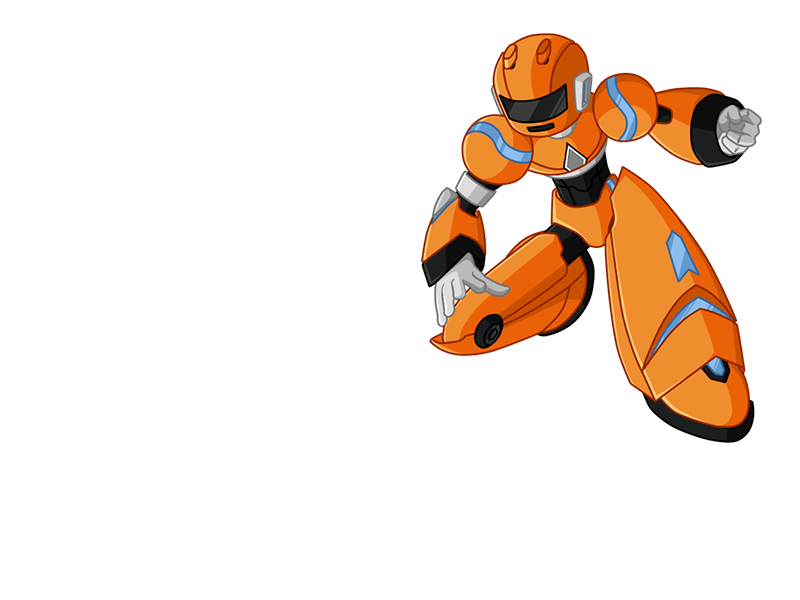
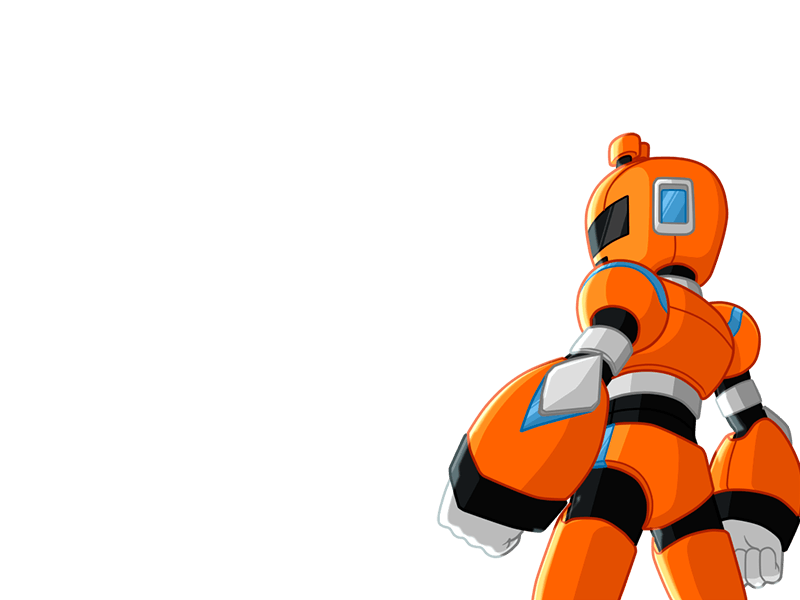
Style tweaks on the welcome page

Changed region(s): [[0.5, 0.03, 1.0, 1.0]]

diff --git a/app/lib/welcome.php b/app/lib/welcome.php
@@ -110,23 +110,30 @@ class WPEMATICO_Welcome {
 				/*<![CDATA[*/
 				[class*="dashboard_page_"] #wpcontent { /*background: #fff;*/ padding: 0 24px; }
 				.wpe-flex{ display: flex; }
-				.about__header-navigation { background: #fff; color: #333;}
-				.about__section { background: #fff; }
-				.about__header { background-color: #222; }
-				.about__header-title p { color: #fff; }
+				.about__section { background: #fff; font-size: 1.2em; margin: 0;}
+				.about__section.mb-0{ margin-bottom: 0; }
+				.about__section a{ color: #222; }
+				.about__section a:hover{ color: #ef8e2f; }
+				.about__header { background-image: <?php echo 'url('.WPEMATICO_PLUGIN_URL . 'images/about-header.png)'; ?>; background-size: 80%; background-position: bottom right; padding-top: 3rem; background-color: #222; }
+				.about__header-title{ margin: 5rem 2rem 0;padding: 1em 0; }
+				.about__header-title p { margin: 0; padding: 0; font-size: 4em; color: #fff; line-height: 1; font-weight: 900; text-transform: uppercase; }
 				.about__header-title p span { color: #eee; }
-				.about__header-text { background: #ef8e2f; }
-				.about__header-text p { color: #fff; }
-				.about__header-navigation { border-color: #222 }
-				.about__header-navigation .nav-tab-active:active, .about__header-navigation .nav-tab-active:hover,
-				.about__header-navigation .nav-tab-active { color: #ef8e2f; border-color: #ef8e2f;}
+				.about__header-text { max-width: 25em; margin: 0 2rem 3rem; padding: 0; font-size: 1.5em; line-height: 1.4;}
+				.about__header-text p { color: #fff; margin-top: 0; }
+				.about__header-navigation { display: flex; justify-content: flex-start; background: #fff; color: #222; border-color: #222; padding-top: 0;}
+				.about__header-navigation .nav-tab{color: #222 ; margin: 0; padding: 24px 32px; float: none; font-size: 1.4em; line-height: 1; border-style: solid; background: 0 0; border-width: 0 0 3px; border-color: transparent;}
+				.about__header-navigation .nav-tab-active { margin-bottom: -3px; }
+				.about__header-navigation .nav-tab-active:active, .about__header-navigation .nav-tab-active:hover, .about__header-navigation .nav-tab-active { color: #ef8e2f; border-color: #ef8e2f;}
 				.about__header-navigation .nav-tab:active, .about__header-navigation .nav-tab:hover{ background: #f5f5f5; color: #ef8e2f; }
 				.about__container .has-accent-background-color { background: #ef8e2f; }
 				.about__container .has-subtle-background-color { background: #f9f9f9; }
-				.about__header-title .wpematico-badge { align-self: flex-end; margin-bottom: 20px; max-height: 80px; width: auto; }
+				.about__header-title .wpematico-badge { align-self: flex-end; margin-bottom: 10px; max-height: 80px; width: auto; }
 				.about__section.about__section_height { min-height: 560px; }
 				.about__section.about__section_height-2 { min-height: 400px; }
 				.about__section.is-feature { font-size: 1.4em; }
+				.about__container h1, .about__container h2, .about__container h3.is-larger-heading{
+					    margin-top: 0; margin-bottom: .5em; font-size: 1.75em; line-height: 1.2; font-weight: 600; }
+				.about__container h1.is-smaller-heading, .about__container h2.is-smaller-heading, .about__container h3 { margin-top: 0; font-size: 1.25em; font-weight: 700; }
 				.about__container .about__image { padding: 0 32px; }
 				.about__section .span-text { font-size: .9em; }
 				.feature-section a, .about__section p a { font-weight: 600; }
@@ -134,14 +141,35 @@ class WPEMATICO_Welcome {
 				.addon_block .addon_img img { display:block; max-width: 120px; height: auto; margin-right: 10px; }
 				.addon_block .addon_text { text-align: right;}
 				.addon_block .addon_text p { margin: 0; font-size: 13px; }
+				.about__section.has-2-columns, .about__section.has-3-columns, .about__section.has-4-columns, .about__section.has-overlap-style { display: grid; }
+				.about__section.has-2-columns{ -ms-grid-columns: 1fr 1fr; grid-template-columns: 1fr 1fr; }
+				.about__section.has-2-columns .column:nth-of-type(2n+1) { -ms-grid-column: 1; grid-column-start: 1; }
+				.about__section.has-2-columns .column:nth-of-type(2n) { -ms-grid-column: 2; grid-column-start: 2; }
+				.about__section .column.is-edge-to-edge{ color: #fff; padding: 0; }
+				.about__section + .about__section .column{ padding-top: 32px; }
+				.about__container .is-vertically-aligned-center{ align-self: center; }
+				@media all and ( max-width: 1035px ) {
+					.about__header { background-size: 95%; }
+				}
 				@media all and ( max-width: 782px ) {
-					.about__header-title .wpematico-badge{ display: none; }
+					.about__header{	background-image: none; }
+					.about__header-title{ margin-top: 0; padding-top: 0;}
+					.about__header-title p{ font-size: 3em; }
 				}
 				@media all and ( max-width: 782px ) and (min-width: 481px) {
 					.about__header-navigation .nav-tab{ padding: 24px 16px; }
 				}
 				@media all and ( max-width: 600px ) and (min-width: 481px) {
 					.about__header-navigation .nav-tab{ font-size: 1.1em; }
+				}
+				@media all and ( max-width: 600px ) {
+					.about__header-title p{ font-size: 2.25em; }
+					.about__section.has-2-columns, .about__section.has-2-columns.is-wider-left, .about__section.has-2-columns.is-wider-right, .about__section.has-3-columns{ display: block; padding-bottom: 16px; }
+					.about__section + .about__section .column{ padding-top: 16px; }
+					.about__section.has-2-columns .column:nth-of-type(n){ padding-top: 16px; padding-bottom: 16px; }
+					.about__header-navigation{ flex-direction: column; }
+					.about__header-navigation .nav-tab { float: none; display: block; margin-bottom: 0; padding: 16px 16px; border-left-width: 6px; border-bottom: none; }
+					.about__header-navigation .nav-tab-active { border-bottom: none; border-left-width: 6px; }
 				}
 				/*]]>*/
 			</style>
@@ -166,6 +194,13 @@ class WPEMATICO_Welcome {
 
 		list( $display_version ) = explode('-', WPEMATICO_VERSION);
 		?>
+		<div class="about__header-title">
+			<img class="wpematico-badge" src="<?php echo WPEMATICO_PLUGIN_URL . '/images/robotico_orange-75x130.png'; ?>" alt="<?php _e('WPeMatico', 'wpematico'); ?>" / >
+			<p>
+				<?php _e('WPeMatico'); ?>
+				<span><?php echo $display_version; ?></span>
+			</p>
+		</div>
 		<div class="about__header-text">
 			<p>
 				<?php
@@ -174,14 +209,6 @@ class WPEMATICO_Welcome {
 					$display_version
 				);
 				?>
-			</p>
-		</div>
-
-		<div class="about__header-title">
-			<img class="wpematico-badge" src="<?php echo WPEMATICO_PLUGIN_URL . '/images/robotico_orange-75x130.png'; ?>" alt="<?php _e('WPeMatico', 'wpematico'); ?>" / >
-			<p>
-				<?php _e('WPeMatico'); ?>
-				<span><?php echo $display_version; ?></span>
 			</p>
 		</div>
 		<?php
@@ -235,7 +262,7 @@ class WPEMATICO_Welcome {
 
 			<?php $this->subscription_form(); ?>
 
-			<hr />
+			<hr/>
 
 			<div class="about__section about__section_height has-2-columns">
 				<div class="column wpe-flex is-edge-to-edge has-accent-background-color">
@@ -342,7 +369,7 @@ class WPEMATICO_Welcome {
 				</div>
 			</div>
 
-			<hr />
+			<hr/>
 
 			<div class="about__section about__section_height has-2-columns has-subtle-background-color">
 				<h2 class="is-section-header"><?php _e('More Tweaks and Improvements.'); ?></h2>
@@ -406,9 +433,9 @@ class WPEMATICO_Welcome {
 				</div>
 			</div>
 
-			<hr />
+			<hr/>
 
-			<div class="about__section has-3-columns">
+			<div class="about__section has-3-columns mb-0">
 				<h2 class="is-section-header"><?php _e('Even More Developer Happiness', 'wpematico'); ?></h2>
 				<div class="column">
 					<h3><?php _e('JavaScript hooks', 'wpematico'); ?></h3>
@@ -423,7 +450,7 @@ class WPEMATICO_Welcome {
 					<p><?php _e('Get access to in-depth setup assistance. We\'ll dig in and do our absolute best to resolve issues for you. Any support that requires code or setup your site will need this service.', 'wpematico'); ?></p>
 				</div>
 			</div>
-			<div class="about__section has-3-columns">
+			<div class="about__section has-3-columns mb-0">
 				<div class="column">
 					<h3><?php _e('Nags updates individually for extensions', 'wpematico'); ?><span class="plugin-count" style="display: inline-block;background-color: #d54e21;color: #fff;font-size: 9px;line-height: 17px;font-weight: 600;margin: 1px 0 0 2px;vertical-align: top;-webkit-border-radius: 10px;border-radius: 10px;z-index: 26;padding: 0 6px;">1</span></h3>
 					<p><?php _e('A more clear nag update was added for the addons in the WPeMatico Extensions and Addons menu items.', 'wpematico'); ?></p>
@@ -433,12 +460,10 @@ class WPEMATICO_Welcome {
 					<p><?php _e("If you have any problem with WPeMatico item menu, Settings page or lost some plugin, we've put there a WPeMatico Section, to try to avoid weird behaviors made by some thirds plugins.", 'wpematico'); ?></p>
 				</div>
 				<div class="column">
-					<h3><a href="https://wordpress.org/support/view/plugin-reviews/wpematico?filter=5&rate=5#new-post" target="_blank"><?php _e('Rate 5 stars on Wordpress', 'wpematico'); ?></a><div class="wporg-ratings" title="5 out of 5 stars" style="color:#ffb900;float: right;"><span class="dashicons dashicons-star-filled"></span><span class="dashicons dashicons-star-filled"></span><span class="dashicons dashicons-star-filled"></span><span class="dashicons dashicons-star-filled"></span><span class="dashicons dashicons-star-filled"></span></div></h3>
+					<h3><a href="https://wordpress.org/support/view/plugin-reviews/wpematico?filter=5&rate=5#new-post" target="_blank"><?php _e('Rate 5 stars on Wordpress', 'wpematico'); ?></a><div class="wporg-ratings" title="5 out of 5 stars" style="color:#ffb900;"><span class="dashicons dashicons-star-filled"></span><span class="dashicons dashicons-star-filled"></span><span class="dashicons dashicons-star-filled"></span><span class="dashicons dashicons-star-filled"></span><span class="dashicons dashicons-star-filled"></span></div></h3>
 					<p><?php _e('We need your positive rating of 5 stars in WordPress. Your comment will be published on the bottom of the website and besides it will help making the plugin better.', 'wpematico'); ?></p>
 				</div>
 			</div>
-
-			<hr />
 
 		</div>
 		<?php
@@ -748,7 +773,7 @@ class WPEMATICO_Welcome {
 				<p><?php _e('WPeMatico continues to improve and innovate with each update, once again we include new features in order to improve the user experience and cover all their needs.', 'wpematico'); ?></p>
 				<p><?php _e('Choose which media files will be uploaded to your website by allowing or not their extension!','wpematico')?></p>
 				<p><?php _e('Can you imagine using the featured images without storing them on your own website? With this new version it\'s now possible! What are you waiting for to test it?', 'wpematico'); ?></p>
-				<h3><?php _e('NOTE: Featured Image From URL plugin is required for this functionality.', 'wpematico'); ?></h3>
+				<h3><strong><?php _e('NOTE: Featured Image From URL plugin is required for this functionality.', 'wpematico'); ?></strong></h3>
 				<p><?php _e('In addition to this, in this new version you can also create excerpts using the description tag of the items in the feed and you can even force the use of the original date of each post!', 'wpematico'); ?></p>
 			</div>
 			<?php if($suscripted_user === false) { ?>
